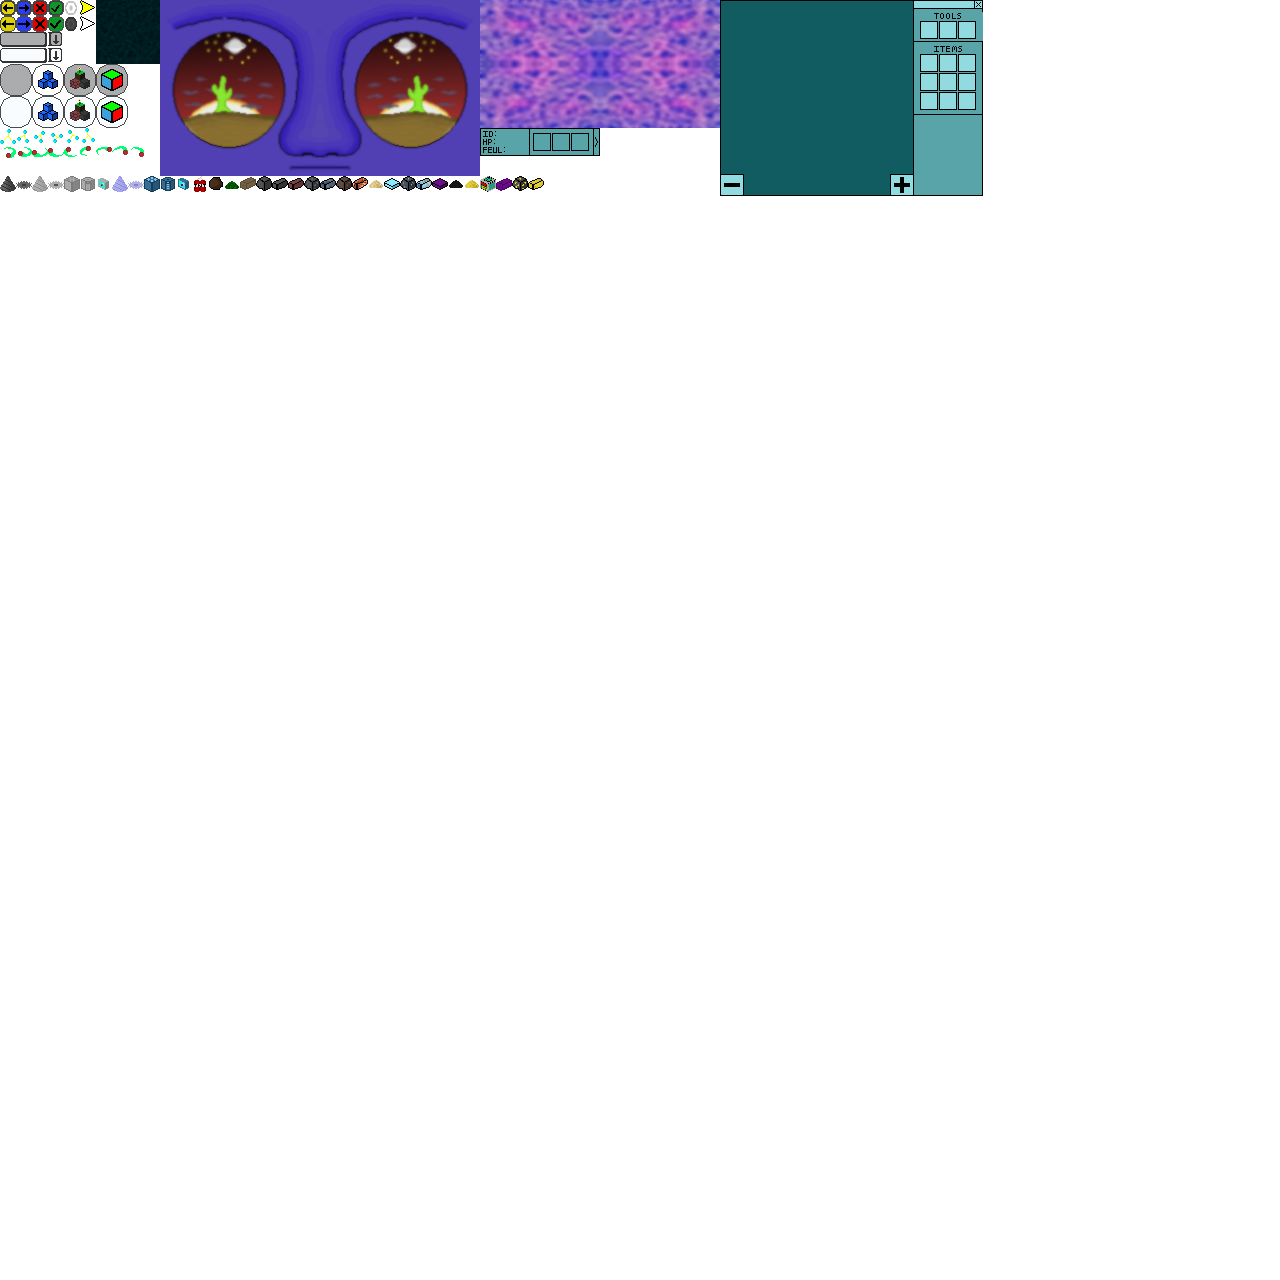
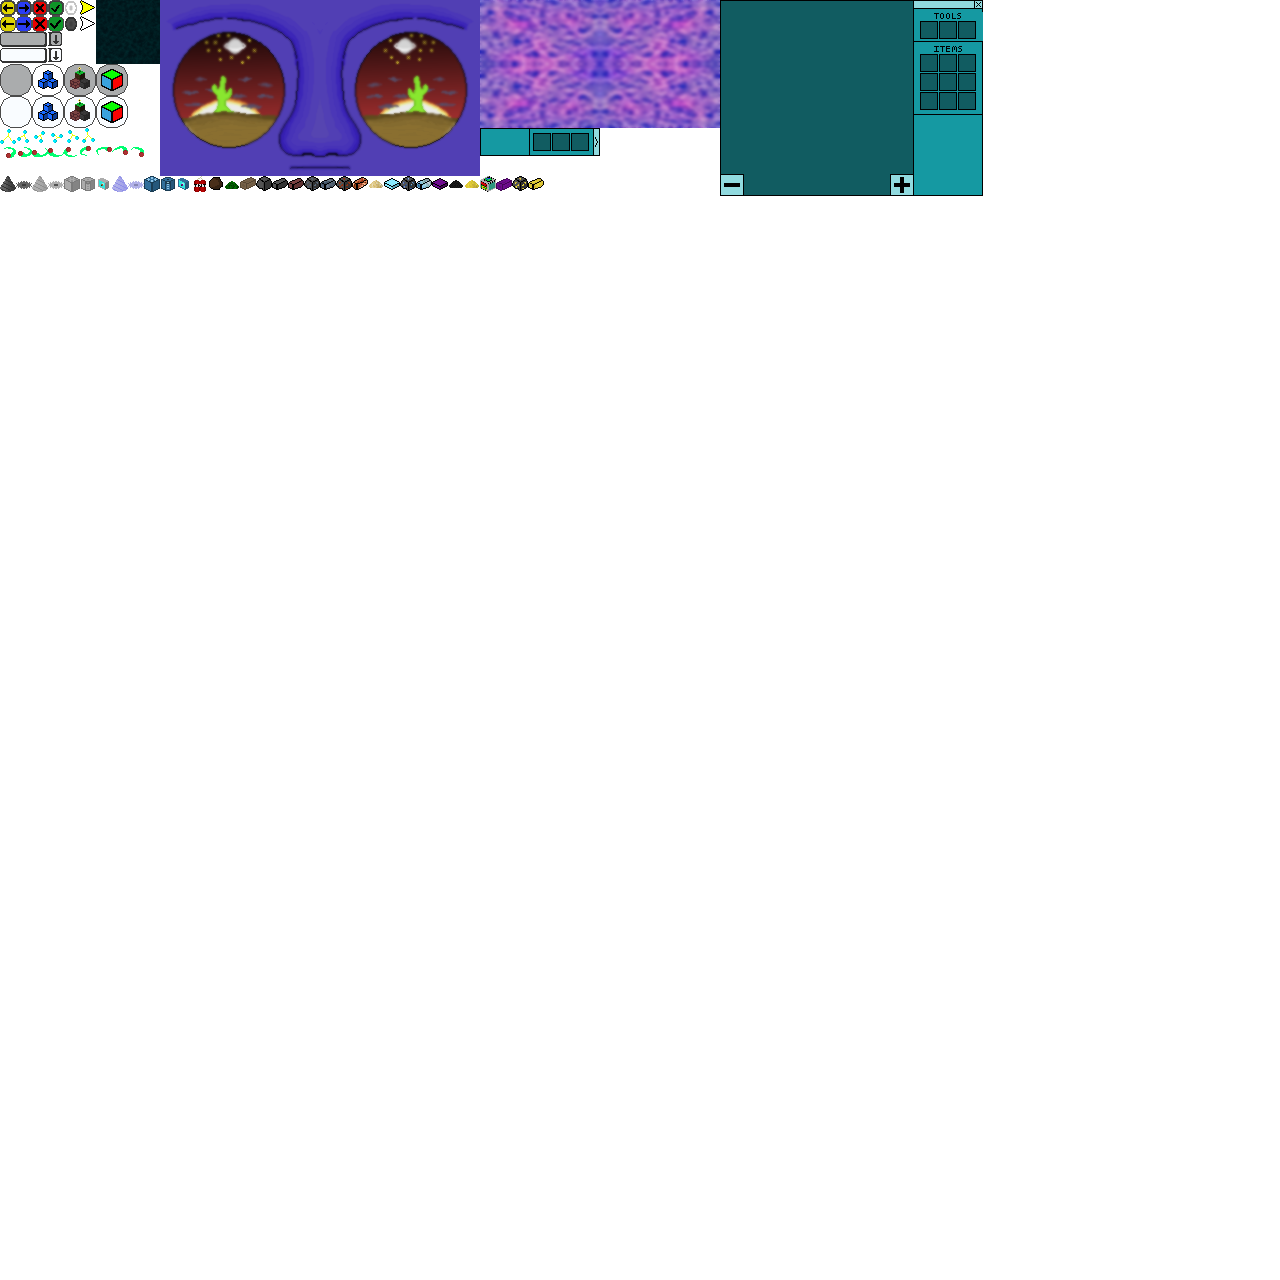
Added drone toggle ui button

Changed region(s): [[0.6875, 0.0, 0.7812, 0.1562], [0.375, 0.0938, 0.4688, 0.125]]

diff --git a/src/game_data/screen/drone_ui/drone_mini_window.rs b/src/game_data/screen/drone_ui/drone_mini_window.rs
@@ -1,19 +1,37 @@
 use miniquad::MouseButton;
 
-use crate::game_data::{TextureManager, screen::{ScreenData, camera_data::{self, CameraData}}, tik_manager::drones::drone::Drone, types::DroneUITexture};
+use crate::game_data::{TextureManager, screen::{ScreenData, camera_data::{self, CameraData}, text::render_string_at_ndi_cords}, tik_manager::drones::drone::Drone, types::DroneUITexture};
 
 pub struct MiniWindow {
-    // Drone Data
+    // Rendering
     ndc_cords: [f32; 2],
-    scale: f32,
+    x_scale: f32,
+    y_scale: f32,
+
+    // Stat rendering
+    stat_start_ndc_cords : [f32; 2],
+    tool_start_ndc_cords : [f32; 2],
+    item_slot_ndc_spacing_scale : [f32; 2],
+
+    // Controls
     pressed: bool,
 }
 
 impl MiniWindow {
     pub fn new() -> MiniWindow {
         MiniWindow {
+            // Rendering
             ndc_cords: [0.0, 0.0],
-            scale: 0.0,
+            x_scale: 0.0,
+            y_scale: 0.0,
+
+            // Stat rendering
+            stat_start_ndc_cords: [0.01666666666, 0.07142857142],
+
+            tool_start_ndc_cords: [0.44166666666, 0.17857142857],
+            item_slot_ndc_spacing_scale: [0.15, 0.64285714285],
+
+            // Controls
             pressed: false,
         }  
     }
@@ -31,10 +49,13 @@ impl MiniWindow {
 
 
     pub fn get_scale(&self) -> f32 {
-        return self.scale;
+        return self.x_scale;
     }
     pub fn set_scale(&mut self, scale: f32) {
-        self.scale = scale;
+        self.x_scale = scale;
+
+        let y_scale = DroneUITexture::DroneMiniWindow.get_y_to_x_ratio() * self.x_scale;
+        self.y_scale = y_scale;
     }
 
     pub fn get_ndc_cords(&self) -> [f32; 2] {
@@ -43,7 +64,7 @@ impl MiniWindow {
     
     pub fn update_drone_ndc_cords(&mut self, drone_world_cords: [i32; 3], camera_data: &CameraData) {
         let drone_ndc_cords = camera_data.world_to_ndc_cords(drone_world_cords);
-        let centered_ndc_draw_cords = [drone_ndc_cords[0] - self.scale /2.0, drone_ndc_cords[1] - self.scale / 3.0];
+        let centered_ndc_draw_cords = [drone_ndc_cords[0] - self.x_scale /2.0, drone_ndc_cords[1] - self.x_scale / 3.0];
         self.ndc_cords = centered_ndc_draw_cords;
     }
 
@@ -53,7 +74,49 @@ impl MiniWindow {
 
     pub fn render(&mut self, texture_manager: &mut TextureManager, camera_data: &CameraData, drone: &Drone) {
         self.update_drone_ndc_cords(drone.get_cords(), camera_data);
-        texture_manager.render_drone_ui_element(DroneUITexture::DroneMiniWindow, self.ndc_cords, self.scale);
+        texture_manager.render_drone_ui_element(DroneUITexture::DroneMiniWindow, self.ndc_cords, self.x_scale);
+
+
+        // Render Tools
+        let scale = (self.item_slot_ndc_spacing_scale[0] * self.x_scale) * 0.75;
+        let centering_offset = (self.item_slot_ndc_spacing_scale[0] * self.x_scale * 0.25) / 2.0;
+
+        let tool_slots = drone.get_tools();
+        let start_ndc_cords = self.tool_start_ndc_cords;
+
+        for i in 0..tool_slots.len() {
+            if let Some(item) = tool_slots[i] {
+                let draw_location = [
+                    (start_ndc_cords[0] + (i as f32 * self.item_slot_ndc_spacing_scale[0])) * self.x_scale + self.ndc_cords[0] + centering_offset,
+                    (start_ndc_cords[1] * self.y_scale) + self.ndc_cords[1] + centering_offset,
+                ];
+
+                texture_manager.render_drone_item(item.to_texture_enum().unwrap(), draw_location, scale);
+            }
+        }
+
+
+        // Render stats
+        let scale = self.x_scale / 30.0;
+        let spacing_scale = scale * 1.25;
+        
+        let mut draw_cords = [
+            self.ndc_cords[0] + self.stat_start_ndc_cords[0] * self.x_scale,
+            self.ndc_cords[1] + self.stat_start_ndc_cords[1] * self.y_scale
+        ];
+
+        // Render id
+        let drone_id_stat = format!("ID: {}", drone.get_id());
+        render_string_at_ndi_cords(texture_manager, drone_id_stat, "Basic".to_string(), scale, draw_cords);
+
+        // Render fuel
+        draw_cords[1] += spacing_scale;
+        let drone_id_stat = format!("Fuel: {}", drone.get_fuel());
+        render_string_at_ndi_cords(texture_manager, drone_id_stat, "Basic".to_string(), scale, draw_cords);
+
+
+
+
     }
 
     //=====================================
@@ -69,8 +132,8 @@ impl MiniWindow {
         // Gotta calculate if mouse is on window based off scale using src rect y to x racio
 
         if button == MouseButton::Left {
-            let y_scale = DroneUITexture::DroneMiniWindow.get_y_to_x_ratio() * self.scale;
-            let end_ndc_cords = [self.ndc_cords[0] + self.scale, self.ndc_cords[1] + y_scale];
+            let y_scale = DroneUITexture::DroneMiniWindow.get_y_to_x_ratio() * self.x_scale;
+            let end_ndc_cords = [self.ndc_cords[0] + self.x_scale, self.ndc_cords[1] + y_scale];
 
             let mouse_ndc = screen_data.get_mouse_ndc_cords();
 

diff --git a/src/game_data/screen/drone_ui/drone_ui_manager.rs b/src/game_data/screen/drone_ui/drone_ui_manager.rs
@@ -2,21 +2,30 @@ use std::{collections::HashMap, sync::{Arc, RwLock}};
 
 use miniquad::MouseButton;
 
-use crate::game_data::{TextureManager, World, screen::{ScreenData, camera_data::CameraData, drone_ui::drone_ui::DroneUI, renderer::camera}, tik_manager::{self, tik_manager::TikManager}};
+use crate::game_data::{TextureManager, World, screen::{Button, ScreenData, camera_data::CameraData, drone_ui::drone_ui::DroneUI, renderer::camera}, tik_manager::{self, tik_manager::TikManager}};
 
 pub struct DroneUIManager {
     drone_ui_map: HashMap<u32, DroneUI>,
+    toggle_drone_ui: Button,
+    drone_ui_visible: bool,
 }
 
 impl DroneUIManager {
     pub fn new() -> DroneUIManager {
         DroneUIManager {
             drone_ui_map: HashMap::new(),
+            toggle_drone_ui: Button::new([-0.99, 0.0], 0.07, crate::game_data::types::UITextures::ButtonCircle),
+            drone_ui_visible: true,
         }
     }
 
     pub fn render_ui(&mut self, texture_manager: &mut TextureManager, camera_data: &CameraData, world: &Arc<RwLock<World>>, tik_manager: &TikManager) {
-        
+        self.toggle_drone_ui.render_button(texture_manager);
+        self.toggle_drone_ui.render_block_on_button(texture_manager, crate::game_data::types::BlockType::DroneBotRight);
+        if !self.drone_ui_visible {
+            return;
+        }
+
         let drone_manager = tik_manager.get_drone_manager();
         let drone_ids = drone_manager.get_all_drone_ids();
         
@@ -39,12 +48,19 @@ impl DroneUIManager {
     //=====================================
     
     pub fn handle_motion_event(&mut self, screen_data: &ScreenData) {
+        self.toggle_drone_ui.handle_mouse_motion_input(screen_data);
         for (id, drone_ui) in &mut self.drone_ui_map.iter_mut() {
             drone_ui.handle_motion_event(screen_data);
         }
     }
 
     pub fn handle_mouse_button_down(&mut self, mouse_button: MouseButton, screen_data: &ScreenData) {
+        if mouse_button == MouseButton::Left {
+            if self.toggle_drone_ui.is_mouse_on_button() {
+                self.drone_ui_visible = !self.drone_ui_visible;
+            }
+        }
+
         for (id, drone_ui) in &mut self.drone_ui_map.iter_mut() {
             drone_ui.mouse_button_down_event(mouse_button, screen_data);
         }

diff --git a/src/game_data/screen/drone_ui/drone_spectate_window.rs b/src/game_data/screen/drone_ui/drone_spectate_window.rs
@@ -133,9 +133,9 @@ impl SpectateWindow {
 
         // Render invintory 
         let drone_inventory = drone.get_inventory();
-
         let text_scale = scale / 3.0;
         let start_ndc_cords = self.inventory_ndc_start_cords;
+        let text_offset = scale / 2.0;
         
         for y_slot in 0..3 {
             for x_slot in 0..3 {
@@ -150,8 +150,8 @@ impl SpectateWindow {
                         texture_manager.render_drone_item(drone_item.to_texture_enum().unwrap(), draw_location, scale);
 
                         let text_draw_location = [
-                            draw_location[0] + scale,
-                            draw_location[1] + scale,
+                            draw_location[0] + text_offset,
+                            draw_location[1] + centering_offset,
                         ];
                         render_centered_string_at_ndi_cords(texture_manager, inventory_slot.get_quantity().to_string(), "Basic".to_string(), text_scale, text_draw_location);
                     }
@@ -176,7 +176,7 @@ impl SpectateWindow {
         }
 
         // render stats
-        let scale = self.x_scale / 50.0;
+        let scale = self.x_scale / 70.0;
         let spacing_scale = scale * 1.25;
         
         let mut draw_cords = [
@@ -197,6 +197,16 @@ impl SpectateWindow {
         draw_cords[1] += spacing_scale;
         let drone_busy_stat = format!("Fuel: {}", drone.get_fuel());
         render_string_at_ndi_cords(texture_manager, drone_busy_stat, "Basic".to_string(), scale, draw_cords);
+
+        // Mine power
+        draw_cords[1] += spacing_scale;
+        let drone_mine_power = format!("Mine Power: {}", drone.get_mine_power());
+        render_string_at_ndi_cords(texture_manager, drone_mine_power, "Basic".to_string(), scale, draw_cords);
+
+        // Chop power
+        draw_cords[1] += spacing_scale;
+        let drone_chop_power = format!("Chop Power: {}", drone.get_chop_power());
+        render_string_at_ndi_cords(texture_manager, drone_chop_power, "Basic".to_string(), scale, draw_cords);
 
 
 

diff --git a/src/game_data/screen/drone_ui/drone_ui.rs b/src/game_data/screen/drone_ui/drone_ui.rs
@@ -2,7 +2,7 @@ use std::sync::{Arc, RwLock};
 
 use miniquad::MouseButton;
 
-use crate::game_data::{TextureManager, World, screen::{ScreenData, camera_data::{self, CameraData}, drone_ui::{drone_mini_window::MiniWindow, drone_spectate_window::SpectateWindow}, screen_data}, tik_manager::drones::drone::Drone, types::DroneUITexture};
+use crate::game_data::{TextureManager, World, screen::{Button, ScreenData, camera_data::{self, CameraData}, drone_ui::{drone_mini_window::MiniWindow, drone_spectate_window::SpectateWindow}, screen_data}, tik_manager::drones::drone::Drone, types::DroneUITexture};
 
 
 /*
@@ -22,7 +22,7 @@ impl DroneUI {
     pub fn new() -> DroneUI{
         DroneUI {
             mini_window: MiniWindow::new(),
-            spectate_window: SpectateWindow::new()
+            spectate_window: SpectateWindow::new(),
         }
     }
     
@@ -30,7 +30,7 @@ impl DroneUI {
     // Ui Rendering
     //=====================================
 
-    pub fn render_drone_ui(&mut self, texture_manager: &mut TextureManager, camera_data: &CameraData, world: &World, drone: &Drone) {
+    pub fn render_drone_ui(&mut self, texture_manager: &mut TextureManager, camera_data: &CameraData, world: &World, drone: &Drone) {    
         self.mini_window.set_scale(camera_data.get_render_scale() * 150.0);
         self.mini_window.render(texture_manager, camera_data, drone);
         if self.spectate_window.is_visible() {
@@ -43,6 +43,7 @@ impl DroneUI {
     //=====================================
 
     pub fn handle_motion_event(&mut self, screen_data: &ScreenData) {
+        
         self.mini_window.handle_motion_event(screen_data);
         if self.spectate_window.is_visible() {
             self.spectate_window.handle_motion_event(screen_data);
@@ -50,7 +51,6 @@ impl DroneUI {
     }
 
     pub fn mouse_button_down_event(&mut self, button: MouseButton, screen_data: &ScreenData) {
-        
         if self.spectate_window.is_visible() {
             self.spectate_window.mouse_button_down_event(button, screen_data);
         }

diff --git a/src/game_data/screen/ui_manager/button.rs b/src/game_data/screen/ui_manager/button.rs
@@ -1,6 +1,6 @@
 use miniquad::MouseButton;
 
-use crate::game_data::{TextureManager, screen::ScreenData, types::UITextures};
+use crate::game_data::{TextureManager, screen::{ScreenData, render_centered_string_at_ndi_cords}, types::{BlockType, UITextures}};
 
 pub struct Button { 
     cords: [f32; 2],
@@ -35,6 +35,17 @@ impl Button {
             self.scale,
         );
     }
+
+    pub fn render_block_on_button(&self, texture_manager: &mut TextureManager, block: BlockType) {
+        // Render drone on top of button
+        let scale = self.scale / 3.0;
+        let offset = ((scale * 2.0) - self.scale) / 2.0;
+        let draw_location: [f32; 2] = [
+            self.cords[0] - offset,
+            self.cords[1] - offset
+        ];
+        texture_manager.render_block(block, draw_location, scale);
+    }
     
     pub fn handle_mouse_motion_input(&mut self, screen_data: &ScreenData) { 
         // if mouse is over button
@@ -52,6 +63,14 @@ impl Button {
 
     pub fn is_mouse_on_button(&self) -> bool {
         self.is_pressed
+    }
+
+    pub fn get_ndc_cords(&self) -> [f32; 2] {
+        return self.cords;
+    }
+
+    pub fn get_scale(&self) -> f32 {
+        return self.scale;
     }
 
 }

diff --git a/src/game_data/tik_manager/drones/drone.rs b/src/game_data/tik_manager/drones/drone.rs
@@ -129,22 +129,31 @@ impl Drone {
     // Drone Getters
     //=====================================
 
+    // Tool
     pub fn get_tools(&self) -> [Option<DroneItem>; 3] {
         return self.tools;
     }
+    pub fn get_mine_power(&self) -> u32 {
+        return self.mine_power;
+    }
+    pub fn get_chop_power(&self) -> u32 {
+        return  self.chop_power;
+    }
 
+    // Inventory
     pub fn get_inventory(&self) -> &DroneInventory {
         return &self.inventory;
     }
-
     pub fn get_inventory_mut(&mut self) -> &mut DroneInventory {
         return &mut self.inventory;
     }
 
+    // Update
     pub fn moved(&self) -> bool {
         return self.moved;
     }
 
+    // World Data
     pub fn get_cords(&self) -> [i32; 3] {
         return self.cords;
     }
@@ -157,13 +166,15 @@ impl Drone {
         return self.name.clone();
     }
 
-    pub fn get_busy(&self) -> u32 {
-        return self.busy_time;
-    }
+    // Fuel
     pub fn get_fuel(&self) -> u32 {
         return self.fuel;
     }
 
+    // Busy
+    pub fn get_busy(&self) -> u32 {
+        return self.busy_time;
+    }
     pub fn is_busy(&self) -> bool {
         return self.busy_time != 0;
     }

diff --git a/src/game_data/types/ui.rs b/src/game_data/types/ui.rs
@@ -131,8 +131,8 @@ impl UITextures {
             UITextures::DropdownArrow => [48, 32, 16, 16],
             UITextures::DropdownArrow_Down => [48, 48, 16, 16],
 
-            UITextures::ButtonCircle => [96, 0, 32, 32],
-            UITextures::ButtonCircle_Down => [96, 32, 32, 32],
+            UITextures::ButtonCircle => [0, 64, 32, 32],
+            UITextures::ButtonCircle_Down => [0, 96, 32, 32],
 
             UITextures::VoidBackground => [96, 0, 64, 64],
             UITextures::FaceBackground => [160, 0, 320, 176],

diff --git a/src/game_data/screen/screen_mananager.rs b/src/game_data/screen/screen_mananager.rs
@@ -31,7 +31,6 @@ impl ScreenManager {
     pub fn new()->Self {
         let mut camera = Camera::new();
 
-
         let new_screen = ScreenManager{
             // Menu Structs
             camera: camera,
